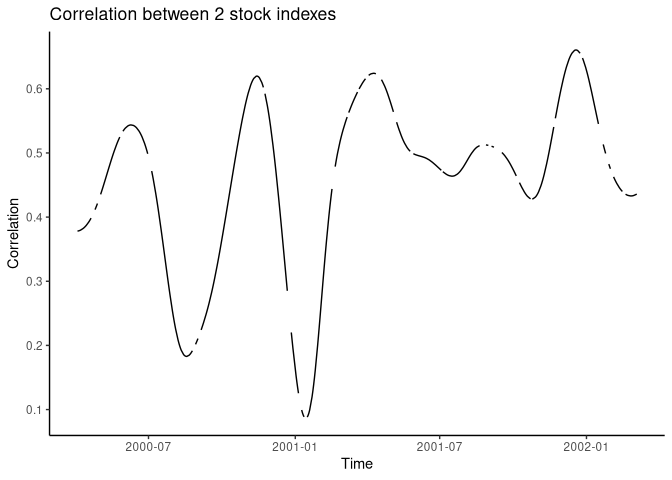
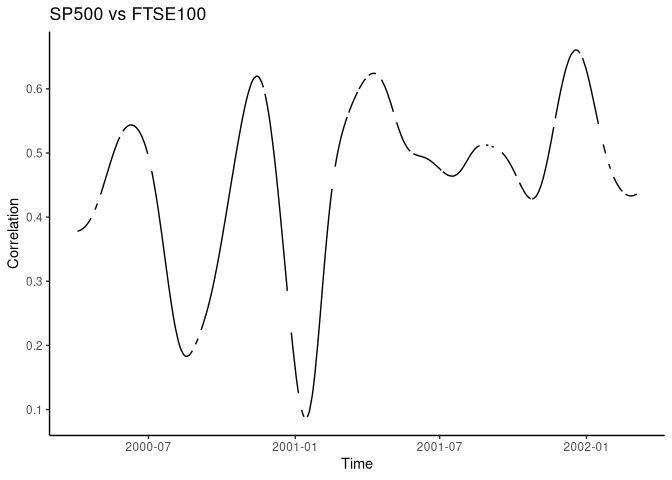
Improve figures

Changed region(s): [[0.0625, 0.0, 0.5, 0.0625]]

diff --git a/README.md b/README.md
@@ -17,10 +17,11 @@ are missing and it may be buggy. Use at your own risk.
 It aims at computing the correlation between 2 time-series. It performs
 a non-parametric kernel smoothing (using a common bandwidth) of all
 underlying componenents required for the computation of a correlation
-coefficient (i.e. *x*, *y*, *x*<sup>2</sup>, *y*<sup>2</sup>, *x**y*).
-An automatic selection procedure for the bandwidth parameter is
-implemented. Gaussian, box and Epanechnikov kernels can be used. Both
-Pearson and Spearman correlation coefficients can be estimated.
+coefficient (i.e. *x*, *y*, *x*<sup>2</sup>, *y*<sup>2</sup>,
+*x* \* *y*). An automatic selection procedure for the bandwidth
+parameter is implemented. Gaussian, box and Epanechnikov kernels can be
+used. Both Pearson and Spearman correlation coefficients can be
+estimated.
 
 ## Installation
 
@@ -39,12 +40,12 @@ Simple example using base-R syntax:
 ``` r
 library(timevarcorr)
 d <- stockprice[1:500, ]
-test <- tcor(x = d$SP500, y = d$FTSE100, t = d$DateID, kernel = "normal")
+test <- with(d, tcor(x = SP500, y = FTSE100, t = DateID, kernel = "normal"))
 #> [1] "h selected using LOO-CV = 60.9"
-plot(test, type = "l", ylab = "Correlation", xlab = "Time", main = "Correlation between 2 stock indexes", las = 1)
+plot(test, type = "l", ylab = "Correlation", xlab = "Time", main = "SP500 vs FTSE100", las = 1)
 ```
 
-<img src="man/figures/README-example-1.png" width="100%" />
+<img src="man/figures/README-example-1.png" width="70%" />
 
 Same example using tidyverse syntax:
 
@@ -67,12 +68,12 @@ stockprice |>
   ggplot() +
     aes(x = t, y = r) +
     geom_line() +
-    labs(title = "Correlation between 2 stock indexes", x = "Time", y = "Correlation") +
+    labs(title = "SP500 vs FTSE100", x = "Time", y = "Correlation") +
     theme_classic()
 #> [1] "h selected using LOO-CV = 60.9"
 ```
 
-<img src="man/figures/README-example2-1.png" width="100%" />
+<img src="man/figures/README-example2-1.png" width="70%" />
 
 Alternative using `dplyr::mutate` showing gaps of observations in the
 series:
@@ -84,23 +85,23 @@ stockprice |>
   ggplot() +
     aes(x = DateID, y = r) +
     geom_line() +
-    labs(title = "Correlation between 2 stock indexes", x = "Time", y = "Correlation") +
+    labs(title = "SP500 vs FTSE100", x = "Time", y = "Correlation") +
     theme_classic()
 #> [1] "h selected using LOO-CV = 60.9"
 ```
 
-<img src="man/figures/README-example3-1.png" width="100%" />
+<img src="man/figures/README-example3-1.png" width="70%" />
 
 You can do more. For exampe, you can use other kernels, fix the
 bandwidth manually, or use the Spearman’s rather than the Pearson’s
 correlation coefficient:
 
 ``` r
-test2 <- tcor(x = d$SP500, y = d$FTSE100, t = d$DateID, cor.method = "spearman", kernel = "box", h = 10)
+test2 <- with(d, tcor(x = SP500, y = FTSE100, t = DateID, cor.method = "spearman", kernel = "box", h = 10))
 plot(test2, type = "l", ylab = "Correlation (Spearman)", xlab = "Time", las = 1)
 ```
 
-<img src="man/figures/README-example4-1.png" width="100%" />
+<img src="man/figures/README-example4-1.png" width="70%" />
 
 ## Inspiration
 
